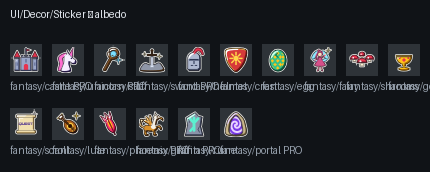
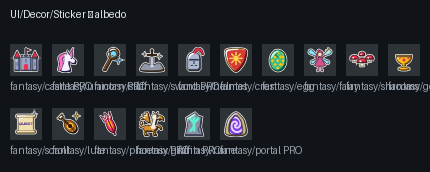
stickers: Fantasy fairy wings fan out from her back, griffin wing and meaner head
Claude-Session: https://claude.ai/code/session_016Eemej3YPrjeAQrG64aNoy

Changed region(s): [[0.3023, 0.6395, 0.393, 0.814], [0.6953, 0.2616, 0.786, 0.3779]]

diff --git a/Tools/sticker_packs/fantasy.py b/Tools/sticker_packs/fantasy.py
@@ -109,7 +109,7 @@ def _():
 
 @sticker("fantasy", "fairy", "Fairy", ["#8CE8FF", "#FFD9C2", "#D6508A", "#FFF6A0"], ink=1.0)
 def _():
-    wings = U(oval(-0.4, 0.4, 0.4, 0.17, 0.95), oval(0.4, 0.4, 0.4, 0.17, -0.95), oval(-0.34, -0.02, 0.28, 0.12, -0.45), oval(0.34, -0.02, 0.28, 0.12, 0.45))
+    wings = U(*[taper(sx * 0.04, 0.2, sx * 0.72, 0.64, 0.03, 0.19) for sx in (-1, 1)], *[taper(sx * 0.04, 0.16, sx * 0.6, -0.18, 0.03, 0.14) for sx in (-1, 1)])
     skin = U(circle(0, 0.44, 0.2), seg(-0.1, 0.16, -0.4, 0.0, 0.06), seg(0.1, 0.16, 0.42, 0.42, 0.06), seg(-0.1, -0.4, -0.13, -0.8, 0.055),
              seg(0.1, -0.4, 0.13, -0.8, 0.055), circle(-0.17, -0.82, 0.07), circle(0.17, -0.82, 0.07))
     dress = poly(spline([(-0.15, 0.22), (0.15, 0.22), (0.18, 0.04), (0.44, -0.42), (0.0, -0.52), (-0.44, -0.42), (-0.18, 0.04)], closed=True, n=6))
@@ -184,20 +184,19 @@ def _():
 
 @sticker("fantasy", "griffin", "Griffin", ["#D9922E", "#F4F0E6", "#4A2A0C", "#FFF3C8"], ink=1.0)
 def _():
-    shoulder = (-0.1, 0.0)
-    wing = U(circle(-0.1, 0.0, 0.18), *[oval(shoulder[0] + 0.34 * math.cos(math.radians(a)), shoulder[1] + 0.34 * math.sin(math.radians(a)), 0.34, 0.11, math.radians(a))
-                                       for a in (95, 122, 150)])
+    wing = poly([(-0.1, 0.05), (-0.18, 0.5), (-0.3, 0.88), (-0.55, 0.86), (-0.5, 0.74), (-0.76, 0.7), (-0.62, 0.58), (-0.86, 0.5),
+                 (-0.68, 0.42), (-0.82, 0.32), (-0.52, 0.3), (-0.3, 0.1)])
     torso = U(oval(-0.05, -0.34, 0.5, 0.26, 0.0), circle(-0.4, -0.34, 0.26))
     legs = U(brush([(-0.42, -0.4), (-0.52, -0.64), (-0.46, -0.84)], [0.13, 0.1, 0.09]), oval(-0.4, -0.86, 0.14, 0.07, 0.0),
              seg(0.16, -0.42, 0.2, -0.82, 0.09), oval(0.26, -0.84, 0.13, 0.07, 0.0), brush([(0.3, -0.3), (0.58, -0.2), (0.7, -0.38)], [0.09, 0.08, 0.08]))
-    tail = U(brush([(-0.62, -0.28), (-0.88, -0.1), (-0.8, 0.22)], [0.09, 0.08, 0.07]), circle(-0.8, 0.26, 0.13))
-    beak = poly(spline([(0.5, 0.58), (0.84, 0.46), (0.86, 0.26), (0.66, 0.38), (0.5, 0.4)], closed=True, n=5))
+    tail = U(brush([(-0.62, -0.28), (-0.86, -0.18), (-0.8, 0.02)], [0.09, 0.08, 0.07]), circle(-0.8, 0.06, 0.13))
+    beak = poly(spline([(0.46, 0.7), (0.84, 0.54), (0.92, 0.22), (0.72, 0.34), (0.6, 0.24), (0.46, 0.4)], closed=True, n=5))
     lion = U(wing, torso, legs, tail, beak)
-    neck = brush([(0.12, -0.2), (0.2, 0.1), (0.3, 0.4)], [0.2, 0.17, 0.16])
-    head = U(neck, oval(0.36, 0.5, 0.25, 0.21, 0.0), poly([(0.2, 0.66), (0.24, 0.9), (0.4, 0.7)]))
-    eye = circle(0.42, 0.55, 0.055)
+    neck = brush([(0.1, -0.2), (0.18, 0.1), (0.26, 0.4)], [0.2, 0.18, 0.18])
+    head = U(neck, oval(0.26, 0.52, 0.3, 0.26, 0.0), poly([(0.06, 0.66), (0.08, 0.94), (0.28, 0.74)]), poly([(0.3, 0.74), (0.46, 0.94), (0.5, 0.66)]))
+    eye = U(circle(0.4, 0.54, 0.065), seg(0.26, 0.74, 0.5, 0.6, 0.045))
     both = U(lion, head)
-    shade = U(_lr(both, 0.09), eye, circle(-0.8, 0.26, 0.13))
+    shade = U(_lr(both, 0.09), eye, circle(-0.8, 0.06, 0.13))
     shine = _hl(both, 0.08, 0.3)
     return [lion, head, shade, shine]
 
